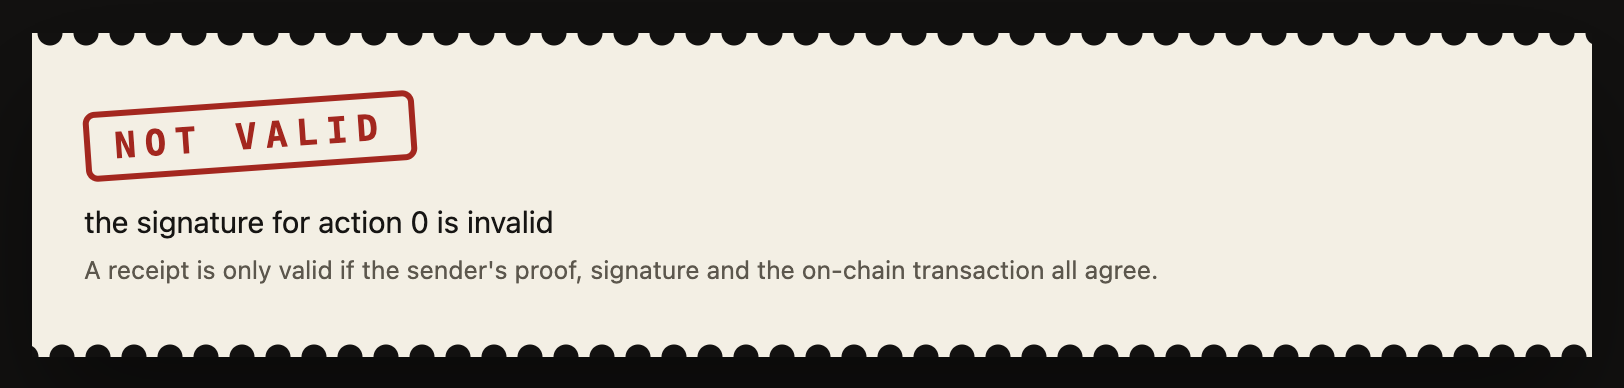
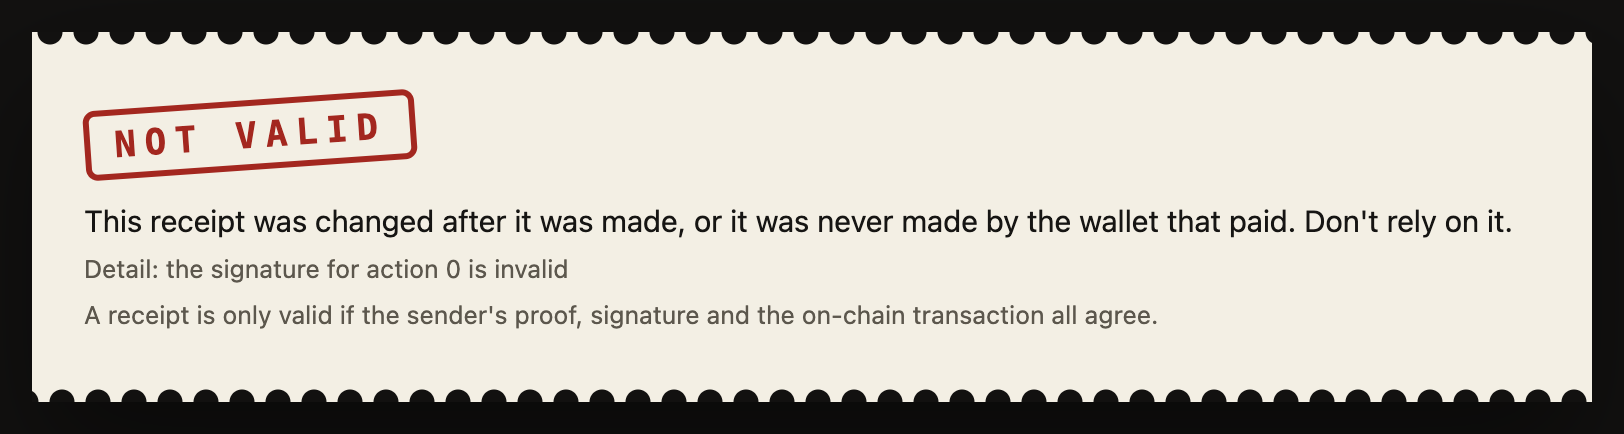
Screenshots of the current page

diff --git a/README.md b/README.md
@@ -34,7 +34,7 @@ receipt**: a real payment ([`571de6e4…`](https://testnet.cipherscan.app/tx/571
 seconds depending on the machine; later checks take about a second.
 
 <p><img src="docs/img/verified.png" width="420" alt="The verifier page showing a VERIFIED receipt for 0.01 TAZ (testnet) with the memo Invoice 42: two coffees">
-<img src="docs/img/refused.png" width="420" alt="The same receipt with its note edited, shown as NOT VALID: the signature for action 0 is invalid"></p>
+<img src="docs/img/refused.png" width="420" alt="The same receipt with its note edited, shown as NOT VALID: changed after it was made"></p>
 
 A receipt is about 5 KB (a 7 KB link): almost all of it is the one Halo 2 proof per disclosed
 spend, which is what proves who paid. That is too big for a QR code, so share it as a link, a
